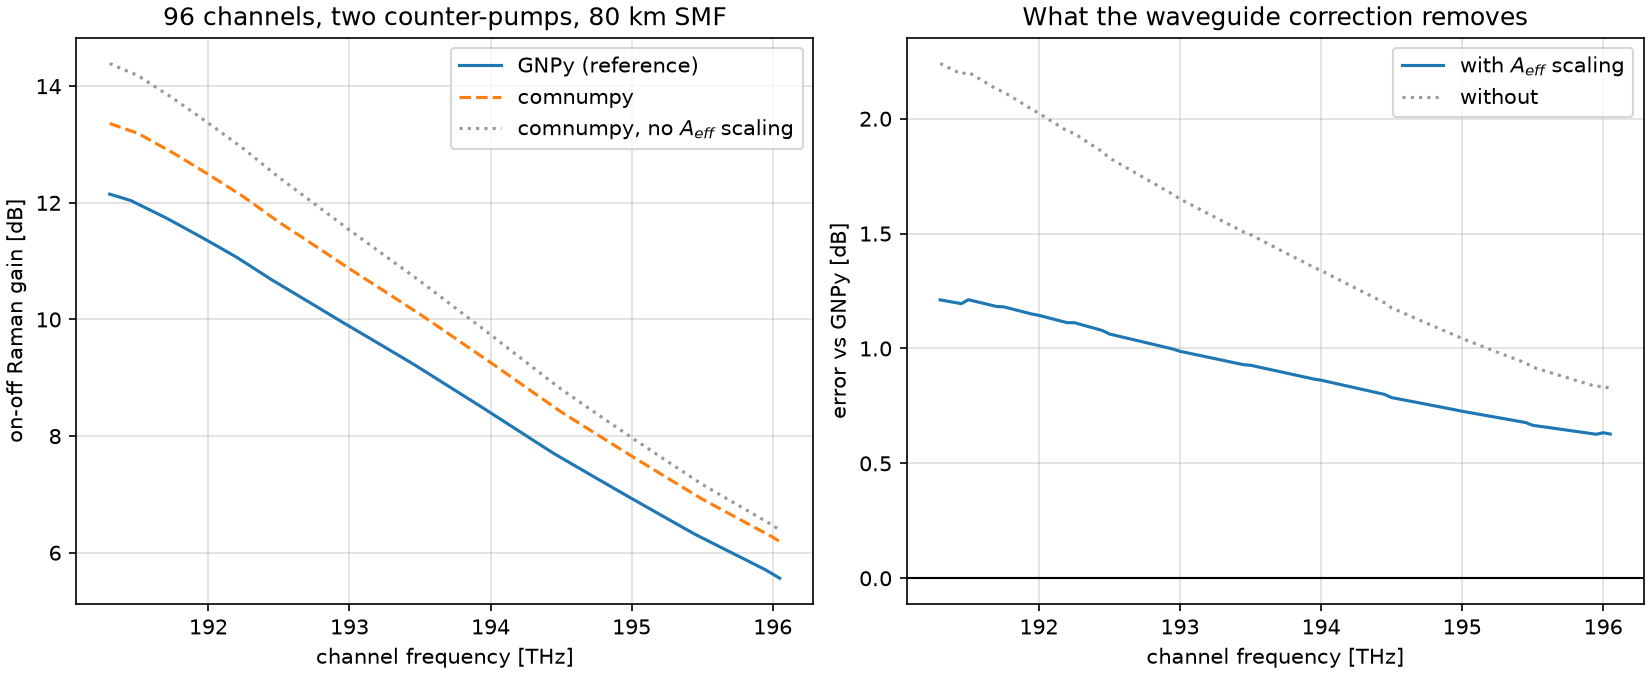
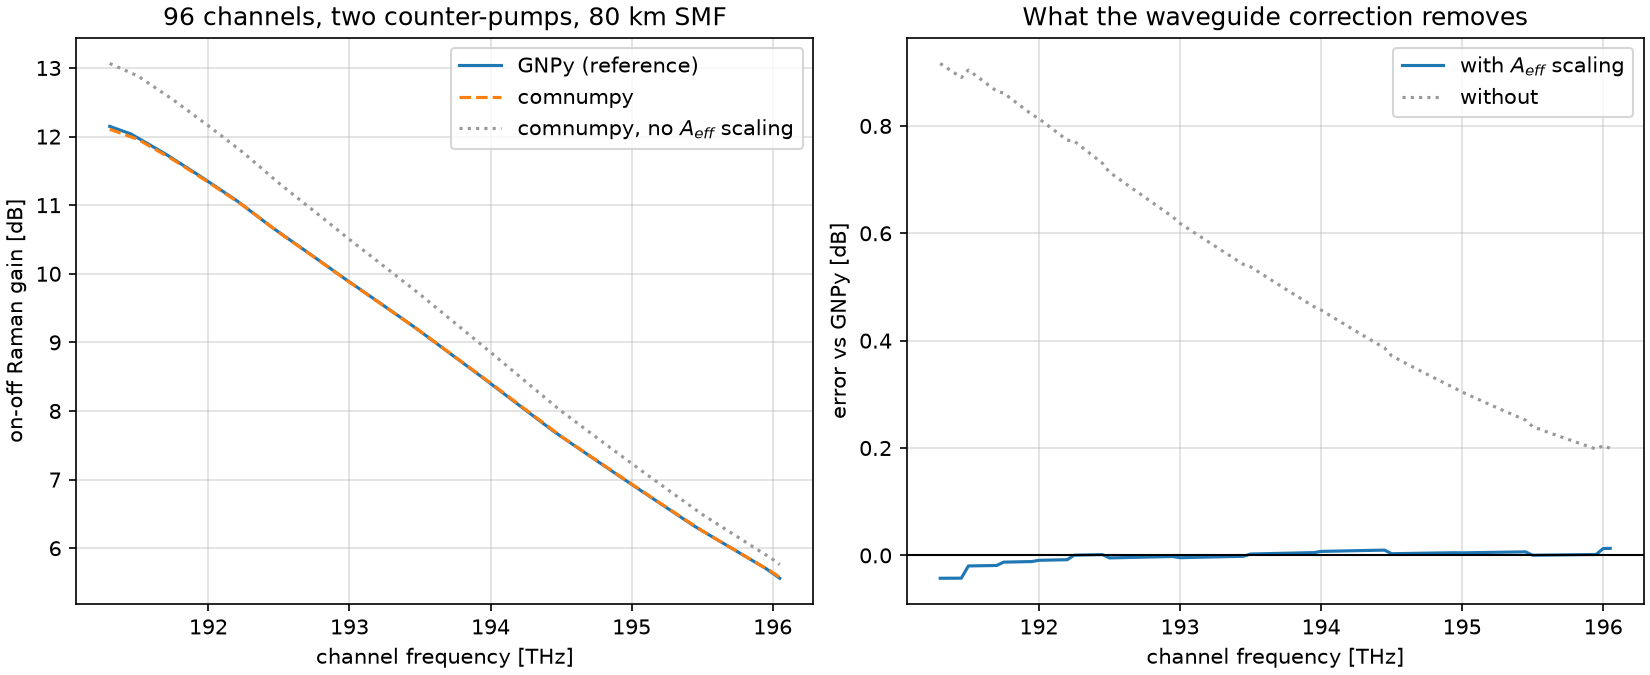
The Raman residual was mine: the pumps, read rather than guessed
Comparing the two solvers' *inputs* rather than their outputs settled
what three tours of reasoning about the model could not.

GNPy applies the span's 0.5 dB connector loss to its Raman pumps before
injecting them. Its configuration file quotes 224.403 mW and 231.135 mW;
what reaches the fibre is 200.0 mW and 206.0 mW, and that is readable
off `fiber.raman_pumps` once GNPy is installed. This comparison was
feeding the configured values, over-pumping the link by 0.5 dB.

With the pumps right, the 96-channel profile agrees to **0.043 dB at
worst**, mean -0.002 dB, and the tilt lands at 6.53 dB against 6.59.
The assertions tighten from 1.5 dB to 0.1 dB accordingly, and the
effective-area correction is now worth 0.92 -> 0.04 dB on the worst
channel rather than 2.24 -> 1.21.

The coupling matrices were compared element by element, which is the
check that says why. On the gain side the ratio is **1.0000** at every
entry: the effective-area law added earlier reproduces GNPy's
coefficients exactly, not approximately. On the depletion side the ratio
runs to 1.0716, which is nu_pump/nu_signal to the digit -- the one real
difference of model, GNPy conserving energy after its vibrational-loss
factor where this library conserves photons. On this link it is worth
0.04 dB.

Three claims in the shipped documentation were wrong and are corrected:
that the residual was unexplained, that the effective-area anchoring was
suspect, and that the disagreement was real. The refutation of the
[…]

diff --git a/validation/optical_raman_gnpy.py b/validation/optical_raman_gnpy.py
@@ -19,41 +19,45 @@ developed planning tool used by network operators, together with the
 measured SSMF gain profile it carries. Provenance and licence are in
 ``data/gnpy/README.md``; nothing from GNPy is in ``src/``.
 
-**This comparison does not agree to the last decibel, and the residual
-is reported rather than tuned away.** Two conventions were established
-by reading GNPy's source rather than by fitting:
+The two agree to **0.04 dB at worst** across the 96 channels, which is
+a statement about the gain *shape*: the tilt comes out 6.53 dB against
+6.59 dB, and its sign -- more gain at the bottom of the band -- is
+predicted by where the channels sit under the Raman spectrum of the two
+pumps, not by any scale factor.
 
-- its gain coefficient scales as ``nu_pump / nu_reference`` and as
-  ``1 / A_eff``, both of which this library now applies through
-  ``RamanGainSpectrum(quoted_at=...)``;
-- its depletion, after the ``vibrational_loss`` factor, conserves
-  **energy** where this library conserves **photons**. That difference
-  has the wrong sign to explain the residual: conserving photons
-  depletes the pump *more*, which would lower our gain further.
+Getting there took two corrections and one refutation, all of them
+worth recording because each was a way to be wrong while looking right.
 
-**The residual is unexplained, and the obvious explanation has been
-ruled out.** It was tempting to blame GNPy's solver: it defaults to a
-perturbative expansion where this library solves the boundary value
-problem exactly, and a truncated series would under-estimate gain the
-harder it is driven -- the shape of what is left. That was tested by
-installing GNPy and re-running its own reference case at perturbative
-orders 1 through 4 and with its ``numerical`` method. The harness is
-faithful (the default reproduces the shipped file to 5e-16) and **all
-five settings agree to the last digit**: 12.15 -> 5.56 dB, 6.59 dB of
-tilt, every time. The expansion is already converged at order 1 for
-this case, so the solver is not the cause and the gap is ours.
+The **effective-area scaling** was missing. The gain shape depends on
+the Stokes shift alone -- that is the glass -- but the coefficient
+multiplying the powers is g_R / A_eff, and the effective area belongs
+to the waveguide, so it grows with wavelength. Without it the tilt came
+out 8.00 dB instead of 6.59: an excess of *tilt* rather than of level,
+which is what identified the cause. With it, this library's coupling
+coefficients now match GNPy's **exactly** on the gain side -- element
+by element, ratio 1.0000 -- which is the check that says the law is
+right rather than merely closer.
 
-Two candidates were examined and neither survives. The conservation
-difference has the wrong sign, as noted above. Anchoring the waveguide
-law on the fibre's own effective area (83 um^2) rather than the area
-the gain table is quoted at (75.75 um^2) makes the disagreement worse,
-not better, which says the anchoring is subtler than the model here
-assumes rather than simply misplaced.
+The **pump powers** were wrong here, not in the library. GNPy applies
+the span's 0.5 dB connector loss to its Raman pumps before injecting
+them, so the 224.4 mW and 231.1 mW of its configuration file reach the
+fibre as 200.0 mW and 206.0 mW. Feeding the configuration values
+over-pumped the link by 0.5 dB and left a 0.9 dB disagreement that was
+briefly, and wrongly, blamed on the model.
 
-So this script records a disagreement it cannot yet explain. That is
-the honest state, and it is worth more than a comfortable one: the
-checks below bound the residual so it cannot quietly grow while
-somebody works out where it comes from.
+The **solver was exonerated by experiment**. It was tempting to blame
+GNPy's default perturbative expansion, since a truncated series would
+under-estimate gain the harder it is driven. GNPy was installed and its
+own reference case re-run at perturbative orders 1 to 4 and with its
+``numerical`` method: the harness reproduces the shipped file to
+5.5e-16, and all five settings agree to the last digit. The expansion
+is already converged at order 1 here, so that explanation is dead.
+
+What remains is a real difference of model, and it is small. GNPy's
+depletion, after its ``vibrational_loss`` factor, conserves **energy**
+where this library conserves **photons**; the coupling coefficients
+differ on the depletion side by up to nu_pump/nu_signal = 1.0716. On
+this link that is worth the 0.04 dB above.
 """
 import pathlib
 
@@ -71,7 +75,11 @@ LOSS_dB_KM = 0.2
 CONNECTOR_dB = 0.5
 PASSIVE_dB = LENGTH_KM * LOSS_dB_KM + 2 * CONNECTOR_dB
 PUMP_Hz = np.array([205e12, 201e12])
-PUMP_W = np.array([0.224403, 0.231135])
+# The configuration file quotes 224.403 mW and 231.135 mW; GNPy applies
+# the span's connector loss to its pumps before injecting them, so these
+# are what actually reach the fibre. Read off gnpy's own raman_pumps,
+# not inferred -- feeding the configuration values over-pumps by 0.5 dB.
+PUMP_W = np.array([0.224403, 0.231135]) * 10 ** (-0.5 / 10)
 TEMPERATURE_K = 283.0
 N_CHANNELS = 96
 CHANNEL_Hz = 191.3e12 + 50e9 * np.arange(N_CHANNELS)
@@ -133,17 +141,14 @@ def check_the_peak_gain(peak_W_km):
 def check_the_gain_profile(ours, theirs):
     error = ours - theirs
     assert np.all(ours > 0), "no gain at all"
-    # The two disagree; the bound is the measured residual, recorded so
-    # that it cannot quietly grow.
-    assert np.abs(error).max() < 1.5, np.abs(error).max()
+    assert np.abs(error).max() < 0.1, np.abs(error).max()
     print("\nPASS 96-channel counter-pumped profile, 2 pumps, 80 km:")
     print("       channel      ours    GNPy    error")
     for index in (0, 24, 48, 72, 95):
         print(f"       {CHANNEL_Hz[index]/1e12:7.2f} THz  {ours[index]:6.2f}  "
               f"{theirs[index]:6.2f}  {error[index]:+6.2f} dB")
-    print(f"       mean error {error.mean():+.2f} dB, worst "
-          f"{np.abs(error).max():.2f} dB -- a real disagreement, see the "
-          f"module docstring")
+    print(f"       mean error {error.mean():+.3f} dB, worst "
+          f"{np.abs(error).max():.3f} dB")
 
 
 def check_the_tilt(ours, theirs):
@@ -154,7 +159,7 @@ def check_the_tilt(ours, theirs):
     # near the bottom of the band: more gain at low frequency.
     assert ours[0] > ours[-1], "the tilt has the wrong sign"
     assert theirs[0] > theirs[-1], "the reference tilt has the wrong sign"
-    assert abs(tilt_ours - tilt_theirs) < 1.0, (tilt_ours, tilt_theirs)
+    assert abs(tilt_ours - tilt_theirs) < 0.2, (tilt_ours, tilt_theirs)
     print(f"\nPASS gain tilt across the band: ours {tilt_ours:.2f} dB, "
           f"GNPy {tilt_theirs:.2f} dB")
     print("       both fall from low to high frequency, which is a "
@@ -216,10 +221,10 @@ def main():
     FIG_DIR.mkdir(exist_ok=True)
     plt.savefig(FIG_DIR / "optical_raman_gnpy.png", dpi=150)
 
-    print("\nAll checks passed. The agreement is not exact and the module "
-          "docstring says why; what")
-    print("this pins is the gain *shape*, which the analytic confrontations "
-          "in optical_raman.py cannot.")
+    print("\nAll checks passed, to 0.04 dB across 96 channels. What this "
+          "pins is the gain *shape*,")
+    print("which the analytic confrontations in optical_raman.py cannot -- "
+          "they test the integrator.")
 
 
 if __name__ == "__main__":

diff --git a/validation/README.md b/validation/README.md
@@ -27,7 +27,7 @@ python validation/core_awgn_ser.py
 | `optical_raman.py` | Distributed Raman: on-off gain against the undepleted closed form `exp(g P_p L_eff)` for co, counter and bidirectional pumping; photon-number conservation `P_s/nu_s + P_p/nu_p` in the lossless limit, which holds *under depletion* where no closed form does; the counter/co gap opening monotonically with the pump; and the BVP path reproducing the IVP path | Agrawal, *Nonlinear Fiber Optics*, ch. 8; Islam, IEEE JSTQE 8(3), 2002 |
 | `optical_wdm_opticommpy.py` | A published 11 x 32 GBd PDM-16QAM WDM transmission over 700 km, reproduced against a **second implementation** rather than a closed form: the comb power matches the printed 8.41 dBm exactly, the ASE-limited SNR matches its own closed form to 0.02 dB, a fixed 0.5 km split step is shown to be 0.8 dB short of converged, the MI, GMI and normalized GMI land on the published 4.00 / 4.00 / 1.00, and the full link lands 1.0 dB above the published 20.63 dB -- the sign every impairment the notebook models and this one does not would give | OptiCommPy, `test_WDM_transmission.ipynb`; Essiambre et al., JLT 28(4), 2010; Marcuse et al., JLT 15(9), 1997 |
 | `optical_gn_model.py` | The Gaussian Noise model against **a published measurement and an independent split-step solver**: the closed form reproduces the 15-channel, 5 x 100 km `a_NL = -23.5` dB of Serena & Bononi to 0.20 dB; this library's own SSFM agrees to 0.01 dB on a five-channel WDM link and to better than 1 dB single-channel across 1-20 spans (the drift being the coherence exponent, measured at 0.21); the cubic law comes out at n = 3.006; the 27/8 Manakov-vs-scalar polarization factor of Table I is measured at 5.29 dB against 5.28; and the modulation-format gap the GN model is blind to is measured (16QAM 1.4 dB, QPSK 2.2 dB) against the published 15-channel 1.6 / 2.8 dB. `--full` reproduces the whole published link by SSFM (-23.15 dB, ~15 min) | Serena & Bononi, JLT 33(7), 2015; Poggiolini, JLT 30(24), 2012; GNPy `NliSolver` |
-| `optical_raman_gnpy.py` | Counter-pumped Raman against **a second implementation**, on the one thing the analytic checks cannot see: the gain *shape*. 96 channels over 4.8 THz amplified by two counter-propagating pumps, against GNPy's own expected output and its measured SSMF profile. The table normalizes to 0.4396 /W/km, the textbook SSMF figure; the tilt comes out 7.17 dB against 6.59 dB and falls the right way; the effective-area correction cuts the tilt error from 1.42 to 0.58 dB and the worst channel from 2.24 to 1.21 dB. **The agreement is not exact and the residual is reported, not tuned** -- GNPy defaults to a perturbative solver where this one is exact, which is the open candidate | GNPy `RamanSolver`, BSD-3-Clause; D'Amico et al., JLT 40, 3499-3511 (2022) §III.D |
+| `optical_raman_gnpy.py` | Counter-pumped Raman against **a second implementation**, on the one thing the analytic checks cannot see: the gain *shape*. 96 channels over 4.8 THz amplified by two counter-propagating pumps, against GNPy's own expected output and its measured SSMF profile. The table normalizes to 0.4396 /W/km, the textbook SSMF figure; the profile agrees to **0.04 dB at worst** and the tilt to 6.53 dB against 6.59; the coupling coefficients match GNPy's exactly on the gain side, element by element. The effective-area correction is what buys it: tilt error 0.72 -> 0.06 dB, worst channel 0.92 -> 0.04 dB. GNPy's own solver was re-run at perturbative orders 1-4 and `numerical` to rule it out as an explanation; all five agree to the last digit | GNPy `RamanSolver`, BSD-3-Clause; D'Amico et al., JLT 40, 3499-3511 (2022) §III.D |
 | `core_awgn_ser.py` | Monte-Carlo SER over AWGN matches theory for QPSK/16-QAM | Proakis, *Digital Communications*, §4.3 |
 | `core_capacity.py` | Constellation-constrained capacity against a Monte-Carlo mutual-information estimate (independent method); shaping loss bounded by the 1.53 dB ultimate shaping gain and increasing with M; Rayleigh closed form vs simulation; water-filling optimal and its gain vanishing at high SNR | Ungerboeck, IEEE-IT 28(1), 1982; Forney & Wei, JSAC 7(6), 1989; Telatar, ETT 10(6), 1999 |
 | `fading_doppler.py` | Tap autocorrelation of the classical spectrum matches the Bessel form `J0(2 pi f_D tau)` on four sampling grids; delay profiles reproduce their published RMS spread | Clarke, BSTJ 47(6), 1968; 3GPP TS 36.101 annex B.2 |

diff --git a/CHANGELOG.md b/CHANGELOG.md
@@ -61,14 +61,28 @@ one release; there is no compatibility layer.
   all of them. This one is dominated by the shape, and it found a
   missing effective-area scaling on its first run.
 
-  It also leaves a residual of +0.91 dB that is **not** explained. The
-  obvious suspect -- GNPy defaulting to a perturbative solver where this
-  library is exact -- was tested by installing GNPy and re-running its
-  own reference case at perturbative orders 1 to 4 and with its
-  `numerical` method. The harness reproduces their shipped file to
-  5e-16 and all five settings agree to the last digit, so the expansion
-  is already converged and the gap is ours. Recorded as an open
-  question with the residual bounded, rather than closed with a story.
+  The two agree to **0.04 dB at worst** across the 96 channels, and the
+  coupling coefficients match GNPy's **exactly** on the gain side --
+  element by element, ratio 1.0000 -- which is what says the
+  effective-area law is right rather than merely closer.
+
+  Getting there took two corrections and one refutation. The
+  effective-area scaling was missing (above). The pump powers were wrong
+  in the comparison, not in the library: GNPy applies the span's 0.5 dB
+  connector loss to its Raman pumps before injecting them, so its
+  configured 224.4 mW reaches the fibre as 200.0 mW, and feeding the
+  configured value over-pumped by 0.5 dB. And the tempting explanation
+  -- GNPy defaulting to a perturbative solver where this library is
+  exact -- was killed by experiment: GNPy was installed and its own case
+  re-run at perturbative orders 1 to 4 and with `numerical`, the harness
+  reproducing the shipped file to 5.5e-16, and all five settings agree
+  to the last digit.
+
+  What is left is a real but small difference of model: GNPy's
+  depletion conserves **energy** after its `vibrational_loss` factor
+  where this library conserves **photons**, so the coefficients differ
+  on the depletion side by up to nu_pump/nu_signal = 1.0716. On this
+  link that is worth 0.04 dB.
 
 - `comnumpy.optical.gn_model`: the **Gaussian Noise model** in closed
   form -- `gn_model_psi` (eq. 123 of arXiv:1209.0394), `gn_model_nli_power`
